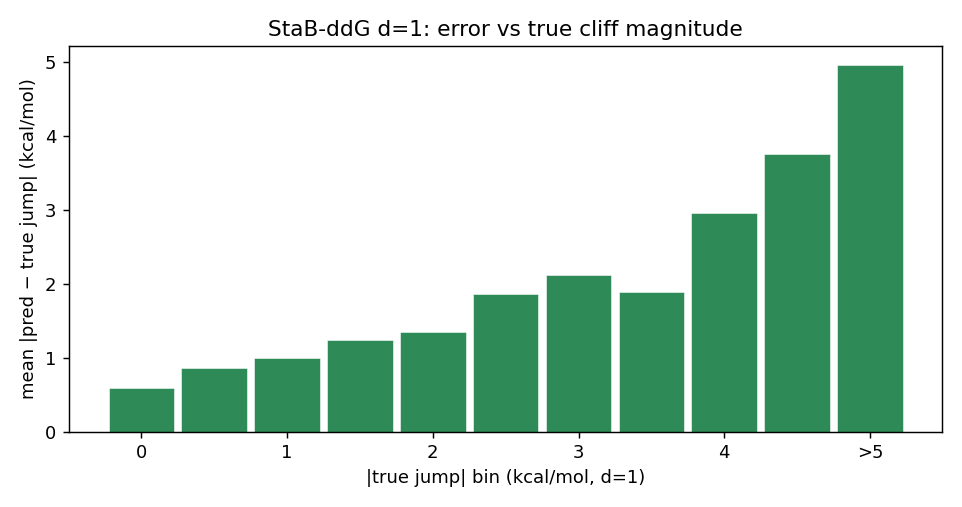
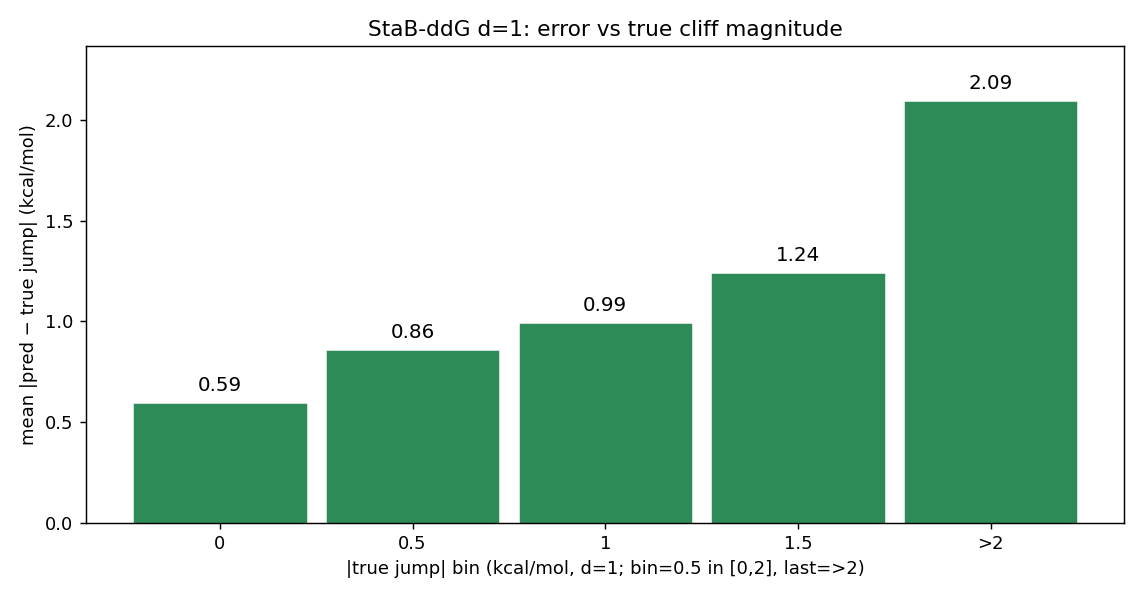
mutation-cliff §7.2: rebin StaB d=1 figures to {0~2 by 0.5}+>2, larger figs with value labels, one-per-line, split into (a) by |error| and (b) by |true jump| subsections

Changed region(s): [[0.0, 0.0296, 0.9979, 0.9763]]

diff --git a/reproduce/mutation_cliff_viz_stab.py b/reproduce/mutation_cliff_viz_stab.py
@@ -121,12 +121,15 @@ print("abnormal:");[print("|",*[f"{v}" for v in r],"|") for r in show(ab,5)]
 # ===== §4.2 d=1 误差直方图 [0,5) step 0.5 + >5 (percentage) =====
 d1=P[P.d==1].copy(); d1["jerr"]=(d1.pred_jump-d1.true_jump).abs()
 print(f"\n[S4.2 d=1 jerr] n={len(d1)} median={d1.jerr.median():.2f} p90={d1.jerr.quantile(.9):.2f} >5pct={100*(d1.jerr>5).mean():.1f}%")
-hedges=[round(0.5*i,1) for i in range(11)]+[1e9]
+hedges=[round(0.5*i,1) for i in range(5)]+[1e9]   # [0,2) step 0.5 + >2
+XT=[0,1,2,3,4]; XL=["0","0.5","1","1.5",">2"]; FS=(8.8,4.6)
 hpct=100*np.histogram(d1.jerr.values,bins=hedges)[0]/len(d1); hxs=np.arange(len(hpct))
-fig,ax=plt.subplots(figsize=(7.2,3.9))
+fig,ax=plt.subplots(figsize=FS)
 ax.bar(hxs,hpct,width=0.9,color="steelblue",edgecolor="white",linewidth=0.3)
-ax.set_xticks([0,2,4,6,8,10]); ax.set_xticklabels(["0","1","2","3","4",">5"])
-ax.set_xlabel("|predicted jump − true jump| (kcal/mol, d=1; bin=0.5 in [0,5], last=>5)")
+for x,v in zip(hxs,hpct): ax.text(x,v+0.5,f"{v:.1f}",ha="center",va="bottom",fontsize=11)
+ax.set_ylim(0,np.nanmax(hpct)*1.13)
+ax.set_xticks(XT); ax.set_xticklabels(XL)
+ax.set_xlabel("|predicted jump − true jump| (kcal/mol, d=1; bin=0.5 in [0,2], last=>2)")
 ax.set_ylabel("percentage of d=1 pairs (%)"); ax.set_title(f"StaB-ddG d=1 jump-error (n={len(d1)}; median={d1.jerr.median():.2f})")
 fig.tight_layout(); fig.savefig(os.path.join(OUT,"stab_d1_jumperr_hist.png")); plt.close(fig)
 # sign-flip by |error|
@@ -134,14 +137,16 @@ d1["eb"]=pd.cut(d1.jerr,hedges,labels=False,right=False)
 sf=np.full(len(hpct),np.nan)
 for k,g in d1.groupby("eb"): sf[int(k)]=100*(np.sign(g.true_jump)!=np.sign(g.pred_jump)).mean()
 print("[S4.2 signflip by err]", {i:round(v) for i,v in enumerate(sf) if not np.isnan(v)})
-fig,ax=plt.subplots(figsize=(7.2,3.9))
+fig,ax=plt.subplots(figsize=FS)
 ax.bar(hxs,sf,width=0.9,color="indianred",edgecolor="white",linewidth=0.3)
-ax.set_xticks([0,2,4,6,8,10]); ax.set_xticklabels(["0","1","2","3","4",">5"]); ax.set_ylim(0,100)
-ax.set_xlabel("|predicted jump − true jump| bin (kcal/mol, d=1)"); ax.set_ylabel("% sign-opposite within bin")
+for x,v in zip(hxs,sf):
+    if not np.isnan(v): ax.text(x,v+1.5,f"{v:.0f}",ha="center",va="bottom",fontsize=11)
+ax.set_xticks(XT); ax.set_xticklabels(XL); ax.set_ylim(0,100)
+ax.set_xlabel("|predicted jump − true jump| bin (kcal/mol, d=1; bin=0.5 in [0,2], last=>2)"); ax.set_ylabel("% sign-opposite within bin")
 ax.set_title(f"StaB-ddG d=1: sign-flip vs jump-error (n={len(d1)})")
 fig.tight_layout(); fig.savefig(os.path.join(OUT,"stab_d1_signflip_by_err.png")); plt.close(fig)
 
-# ===== §4.2 按 |true jump| 分桶 [0,5) step 0.5 + >5 =====
+# ===== §4.2 按 |true jump| 分桶 [0,2) step 0.5 + >2 =====
 tj=d1.true_jump.abs(); tb=pd.cut(tj,hedges,labels=False,right=False)
 tpct=np.full(len(hpct),np.nan); terr=np.full(len(hpct),np.nan); tflip=np.full(len(hpct),np.nan)
 for k,idx in d1.assign(_t=tb).groupby("_t").groups.items():
@@ -149,16 +154,20 @@ for k,idx in d1.assign(_t=tb).groupby("_t").groups.items():
 print("[S4.2 by |true jump|] pct:",{i:round(v,1) for i,v in enumerate(tpct) if not np.isnan(v)})
 print("  meanErr:",{i:round(v,2) for i,v in enumerate(terr) if not np.isnan(v)})
 print("  flip:",{i:round(v) for i,v in enumerate(tflip) if not np.isnan(v)})
-def _xt(ax): ax.set_xticks([0,2,4,6,8,10]); ax.set_xticklabels(["0","1","2","3","4",">5"]); ax.set_xlabel("|true jump| bin (kcal/mol, d=1)")
-fig,ax=plt.subplots(figsize=(7.4,3.9)); ax.bar(hxs,tpct,width=0.9,color="steelblue",edgecolor="white",linewidth=0.3); _xt(ax)
+def _xt(ax): ax.set_xticks(XT); ax.set_xticklabels(XL); ax.set_xlabel("|true jump| bin (kcal/mol, d=1; bin=0.5 in [0,2], last=>2)")
+fig,ax=plt.subplots(figsize=FS); ax.bar(hxs,tpct,width=0.9,color="steelblue",edgecolor="white",linewidth=0.3); _xt(ax)
 for x,v in zip(hxs,tpct):
-    if not np.isnan(v): ax.text(x,v+0.4,f"{v:.1f}",ha="center",va="bottom",fontsize=9)
+    if not np.isnan(v): ax.text(x,v+0.5,f"{v:.1f}",ha="center",va="bottom",fontsize=11)
 ax.set_ylim(0,np.nanmax(tpct)*1.13); ax.set_ylabel("percentage of d=1 pairs (%)"); ax.set_title(f"StaB-ddG d=1: distribution of |true jump| (n={len(d1)})")
 fig.tight_layout(); fig.savefig(os.path.join(OUT,"stab_byTrueJump_pct.png")); plt.close(fig)
-fig,ax=plt.subplots(figsize=(7.4,3.9)); ax.bar(hxs,terr,width=0.9,color="seagreen",edgecolor="white",linewidth=0.3); _xt(ax)
-ax.set_ylabel("mean |pred − true jump| (kcal/mol)"); ax.set_title("StaB-ddG d=1: error vs true cliff magnitude")
+fig,ax=plt.subplots(figsize=FS); ax.bar(hxs,terr,width=0.9,color="seagreen",edgecolor="white",linewidth=0.3); _xt(ax)
+for x,v in zip(hxs,terr):
+    if not np.isnan(v): ax.text(x,v+0.04,f"{v:.2f}",ha="center",va="bottom",fontsize=11)
+ax.set_ylim(0,np.nanmax(terr)*1.13); ax.set_ylabel("mean |pred − true jump| (kcal/mol)"); ax.set_title("StaB-ddG d=1: error vs true cliff magnitude")
 fig.tight_layout(); fig.savefig(os.path.join(OUT,"stab_byTrueJump_err.png")); plt.close(fig)
-fig,ax=plt.subplots(figsize=(7.4,3.9)); ax.bar(hxs,tflip,width=0.9,color="indianred",edgecolor="white",linewidth=0.3); _xt(ax)
+fig,ax=plt.subplots(figsize=FS); ax.bar(hxs,tflip,width=0.9,color="indianred",edgecolor="white",linewidth=0.3); _xt(ax)
+for x,v in zip(hxs,tflip):
+    if not np.isnan(v): ax.text(x,v+1.5,f"{v:.0f}",ha="center",va="bottom",fontsize=11)
 ax.set_ylim(0,100); ax.set_ylabel("% sign-opposite within bin"); ax.set_title("StaB-ddG d=1: sign-flip vs true cliff magnitude")
 fig.tight_layout(); fig.savefig(os.path.join(OUT,"stab_byTrueJump_signflip.png")); plt.close(fig)
 
